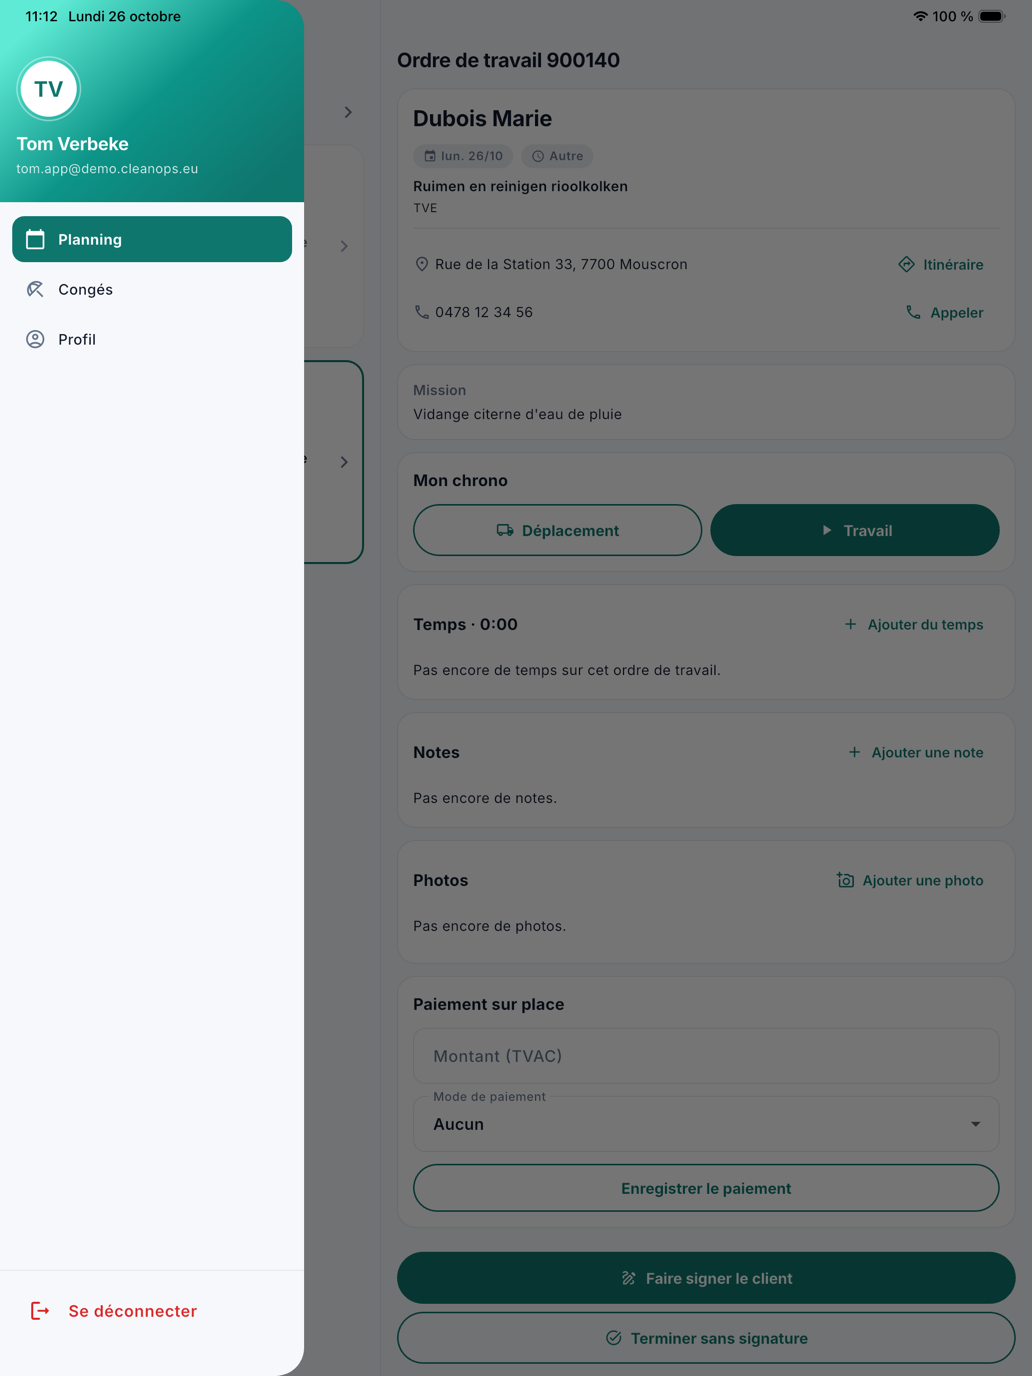
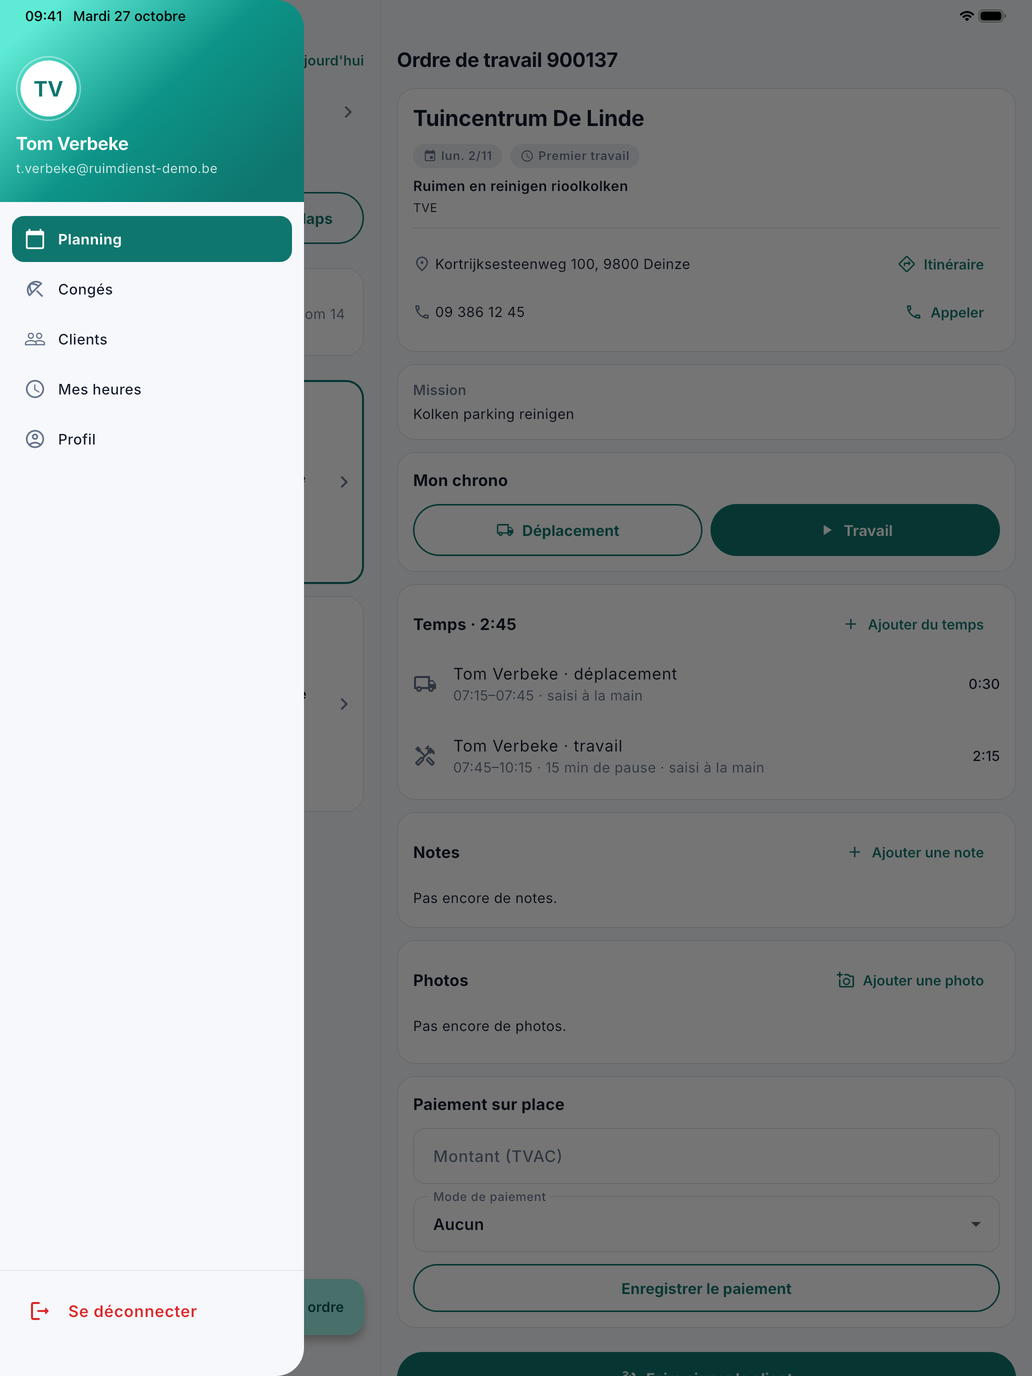
App-beelden: Mijn uren, de klantkaart, ploeg/voertuig/dagroute op de planning en het nieuwe menu (NL als Tom op nl-BE, FR op fr-BE, klok 09:41)

diff --git a/docs/app/klanten.fr.md b/docs/app/klanten.fr.md
@@ -14,7 +14,7 @@ et que pour [créer un ordre de travail](werkorder-aanmaken.fr.md). Un appui sur
 
 ## La fiche client
 
-<!-- AFBEELDING: app-klantkaart-fr — La fiche de Tuincentrum De Linde dans l'application : le numéro de client, le téléphone et l'e-mail, l'adresse principale et une adresse d'exécution avec accessibilité, instruction de travail, matériel, remarque et les ordres de travail à cette adresse -->
+![La fiche de Tuincentrum De Linde dans l'application : le numéro de client, le téléphone et l'e-mail, l'adresse principale et les adresses d'exécution avec accessibilité, instruction de travail, matériel, remarque et les ordres de travail à cette adresse](../images/app-klantkaart-fr.png "La fiche client"){ width="560" }
 
 En haut figurent le numéro de client, le téléphone et l'adresse e-mail ; un appui appelle ou envoie un e-mail. Si le
 client est bloqué ou n'accepte plus de nouveaux ordres, une carte l'indique, comme le bureau le voit.

diff --git a/docs/app/klanten.md b/docs/app/klanten.md
@@ -14,7 +14,7 @@ en als bij [een werkorder aanmaken](werkorder-aanmaken.md). Een tik op een klant
 
 ## De klantkaart
 
-<!-- AFBEELDING: app-klantkaart — De klantkaart van Tuincentrum De Linde in de app: het klantnummer, telefoon en e-mail, het hoofdadres en een uitvoeringsadres met bereikbaarheid, werkinstructie, materiaal, opmerking en de werkorders op dat adres -->
+![De klantkaart van Tuincentrum De Linde in de app: het klantnummer, telefoon en e-mail, het hoofdadres en de uitvoeringsadressen met bereikbaarheid, werkinstructie, materiaal, opmerking en de werkorders op dat adres](../images/app-klantkaart.png "De klantkaart"){ width="560" }
 
 Bovenaan staan het klantnummer, het telefoonnummer en het e-mailadres; een tik belt of mailt. Is de klant geblokkeerd of
 neemt hij geen nieuwe opdrachten, dan staat dat er in een kaart, zoals het kantoor het ziet.

diff --git a/docs/app/planning.fr.md b/docs/app/planning.fr.md
@@ -36,7 +36,7 @@ En haut de la journée figurent, s'il y a lieu :
   des boutons **Itinéraire, partie 1**, **partie 2**, etc. apparaissent ;
 - la **Remarque du planificateur** : la remarque du jour que le bureau a écrite dans Équipes.
 
-<!-- AFBEELDING: app-planning-dag-fr — Le planning dans l'application le lundi 2 novembre : Avec Kevin De Wilde, la plaque 1-DEM-002, le bouton Itinéraire du jour dans Google Maps et la Remarque du planificateur, en dessous les ordres de travail -->
+![Le planning dans l'application le lundi 2 novembre : Avec Kevin De Wilde, la plaque 1-DEM-002, le bouton Itinéraire du jour dans Google Maps et la Remarque du planificateur, en dessous les ordres de travail](../images/app-planning-dag-fr.png "Équipe, véhicule et itinéraire"){ width="560" }
 
 ## Blocs et congés
 

diff --git a/docs/app/uren.fr.md b/docs/app/uren.fr.md
@@ -7,7 +7,7 @@ description: "Mes heures dans l'application mobile CleanOps : le temps presté p
 Sous **Mes heures** dans le menu, le collaborateur voit son propre temps d'une semaine entière : ce qu'il a enregistré
 avec le chrono ou à la main sur ses ordres de travail, tous ordres confondus.
 
-<!-- AFBEELDING: app-uren-fr — Mes heures dans l'application : la semaine du 26/10 au 1/11, en haut Travail, Déplacement et Pause, en dessous mardi avec deux lignes sur l'ordre 900137 -->
+![Mes heures dans l'application : la semaine du 26/10 au 1/11, en haut Travail, Déplacement et Pause, en dessous mardi avec deux lignes sur l'ordre 900137](../images/app-uren-fr.png "Mes heures"){ width="560" }
 
 ## La semaine
 

diff --git a/docs/app/planning.md b/docs/app/planning.md
@@ -34,7 +34,7 @@ Bovenaan de dag staat, als het er is:
   **Dagroute, deel 1**, **deel 2** enzovoort;
 - de **Opmerking van de planner**: de dagopmerking die het kantoor op Ploegen bij die dag schreef.
 
-<!-- AFBEELDING: app-planning-dag — De planning in de app op maandag 2 november: Met Kevin De Wilde, het kenteken 1-DEM-002, de knop Dagroute in Google Maps en de Opmerking van de planner, daaronder de werkorders -->
+![De planning in de app op maandag 2 november: Met Kevin De Wilde, het kenteken 1-DEM-002, de knop Dagroute in Google Maps en de Opmerking van de planner, daaronder de werkorders](../images/app-planning-dag.png "Ploeg, voertuig en dagroute"){ width="560" }
 
 ## Blokken en verlof
 

diff --git a/docs/app/aan-de-slag.fr.md b/docs/app/aan-de-slag.fr.md
@@ -42,7 +42,7 @@ fiche.
 Les trois traits en haut à gauche ouvrent le menu : le nom et l'adresse e-mail du collaborateur, **Planning**,
 **Congés**, **Clients**, **Mes heures**, **Profil** et en bas **Se déconnecter**.
 
-![Le menu de l'application sur une tablette : en haut Tom Verbeke avec son adresse e-mail, puis Planning, Congés et Profil, et en bas Se déconnecter](../images/app-menu-fr.png "Le menu"){ width="560" }
+![Le menu de l'application sur une tablette : en haut Tom Verbeke avec son adresse e-mail, puis Planning, Congés, Clients, Mes heures et Profil, et en bas Se déconnecter](../images/app-menu-fr.png "Le menu"){ width="560" }
 
 ## Le profil
 

diff --git a/docs/app/uren.md b/docs/app/uren.md
@@ -7,7 +7,7 @@ description: "Mijn uren in de mobiele app van CleanOps: de eigen gewerkte tijd p
 Onder **Mijn uren** in het menu ziet de medewerker zijn eigen tijd van een hele week: wat hij met de teller of met de hand
 op zijn werkorders registreerde, over alle werkorders heen.
 
-<!-- AFBEELDING: app-uren — Mijn uren in de app: de week van 26/10 tot 1/11, bovenaan Werk, Verplaatsing en Pauze, daaronder dinsdag met twee regels op werkorder 900137 -->
+![Mijn uren in de app: de week van 26/10 tot 1/11, bovenaan Werk, Verplaatsing en Pauze, daaronder dinsdag met twee regels op werkorder 900137](../images/app-uren.png "Mijn uren"){ width="560" }
 
 ## De week
 

diff --git a/docs/app/aan-de-slag.md b/docs/app/aan-de-slag.md
@@ -41,7 +41,7 @@ kiezen.
 Met de drie streepjes linksboven opent het menu: de naam en het e-mailadres van de medewerker, **Planning**, **Verlof**,
 **Klanten**, **Mijn uren**, **Profiel** en onderaan **Afmelden**.
 
-![Het menu van de app op een tablet: bovenaan Tom Verbeke met zijn e-mailadres, daaronder Planning, Verlof en Profiel, en onderaan Afmelden](../images/app-menu.png "Het menu"){ width="560" }
+![Het menu van de app op een tablet: bovenaan Tom Verbeke met zijn e-mailadres, daaronder Planning, Verlof, Klanten, Mijn uren en Profiel, en onderaan Afmelden](../images/app-menu.png "Het menu"){ width="560" }
 
 ## Het profiel
 
